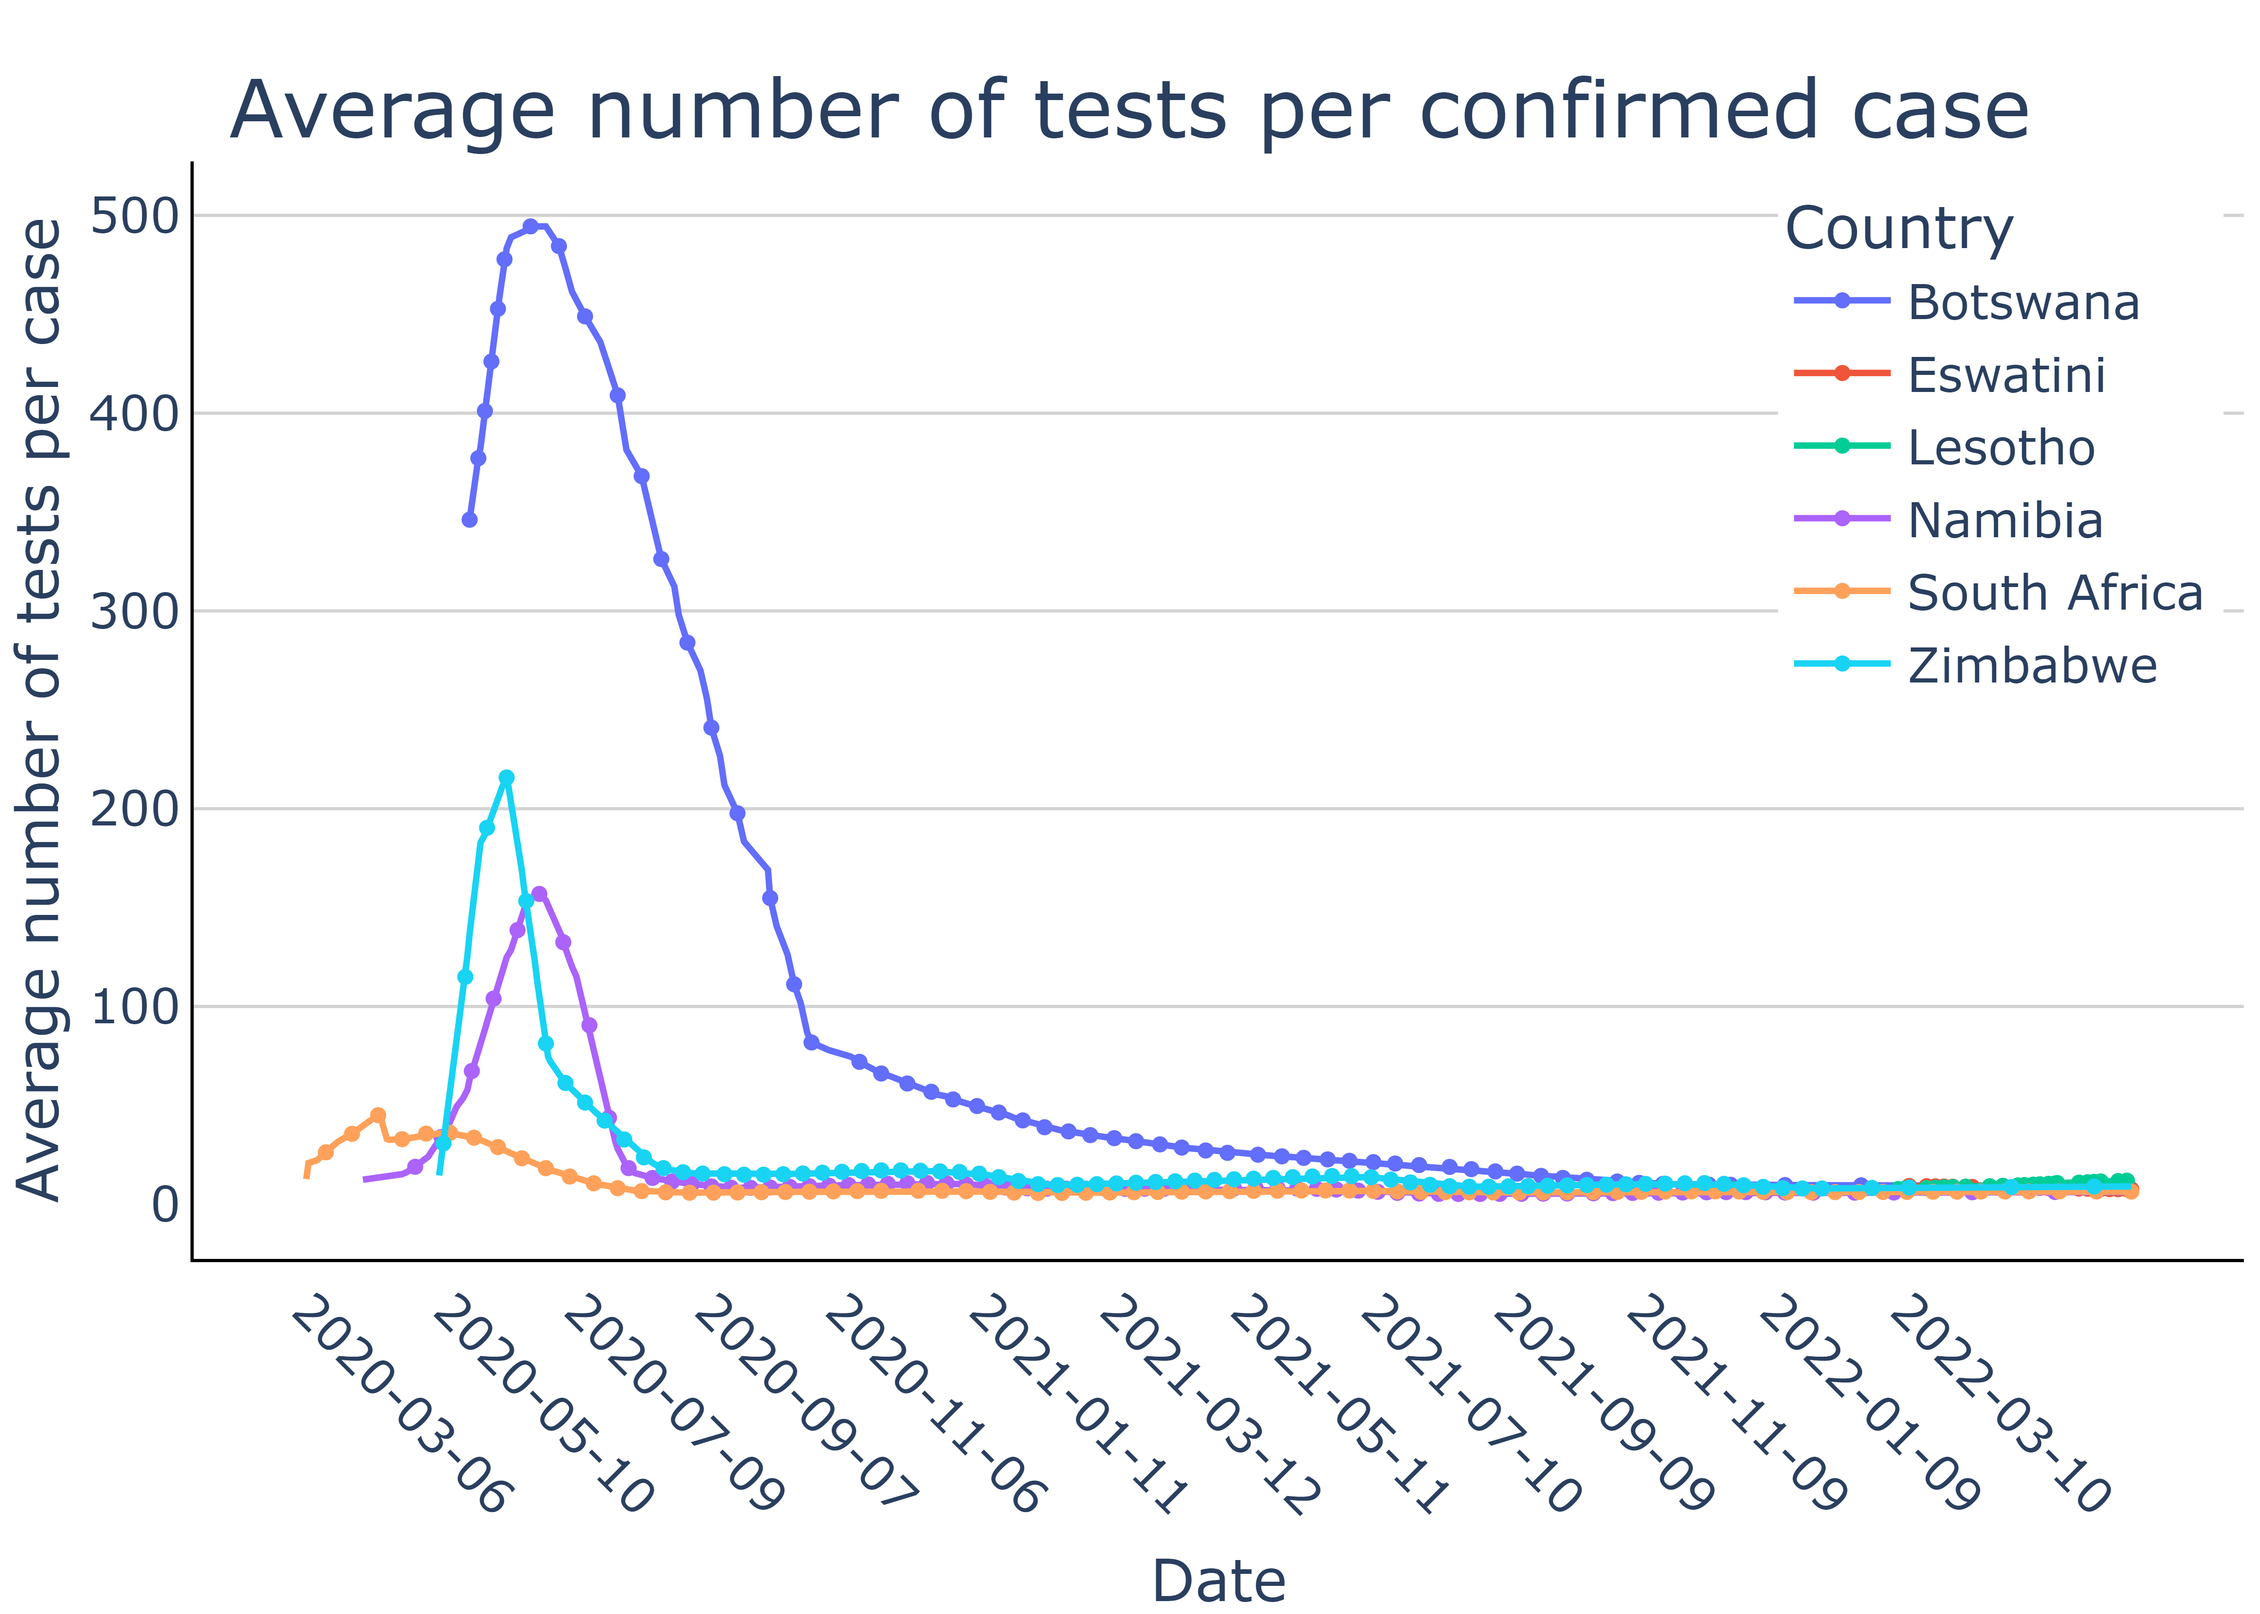
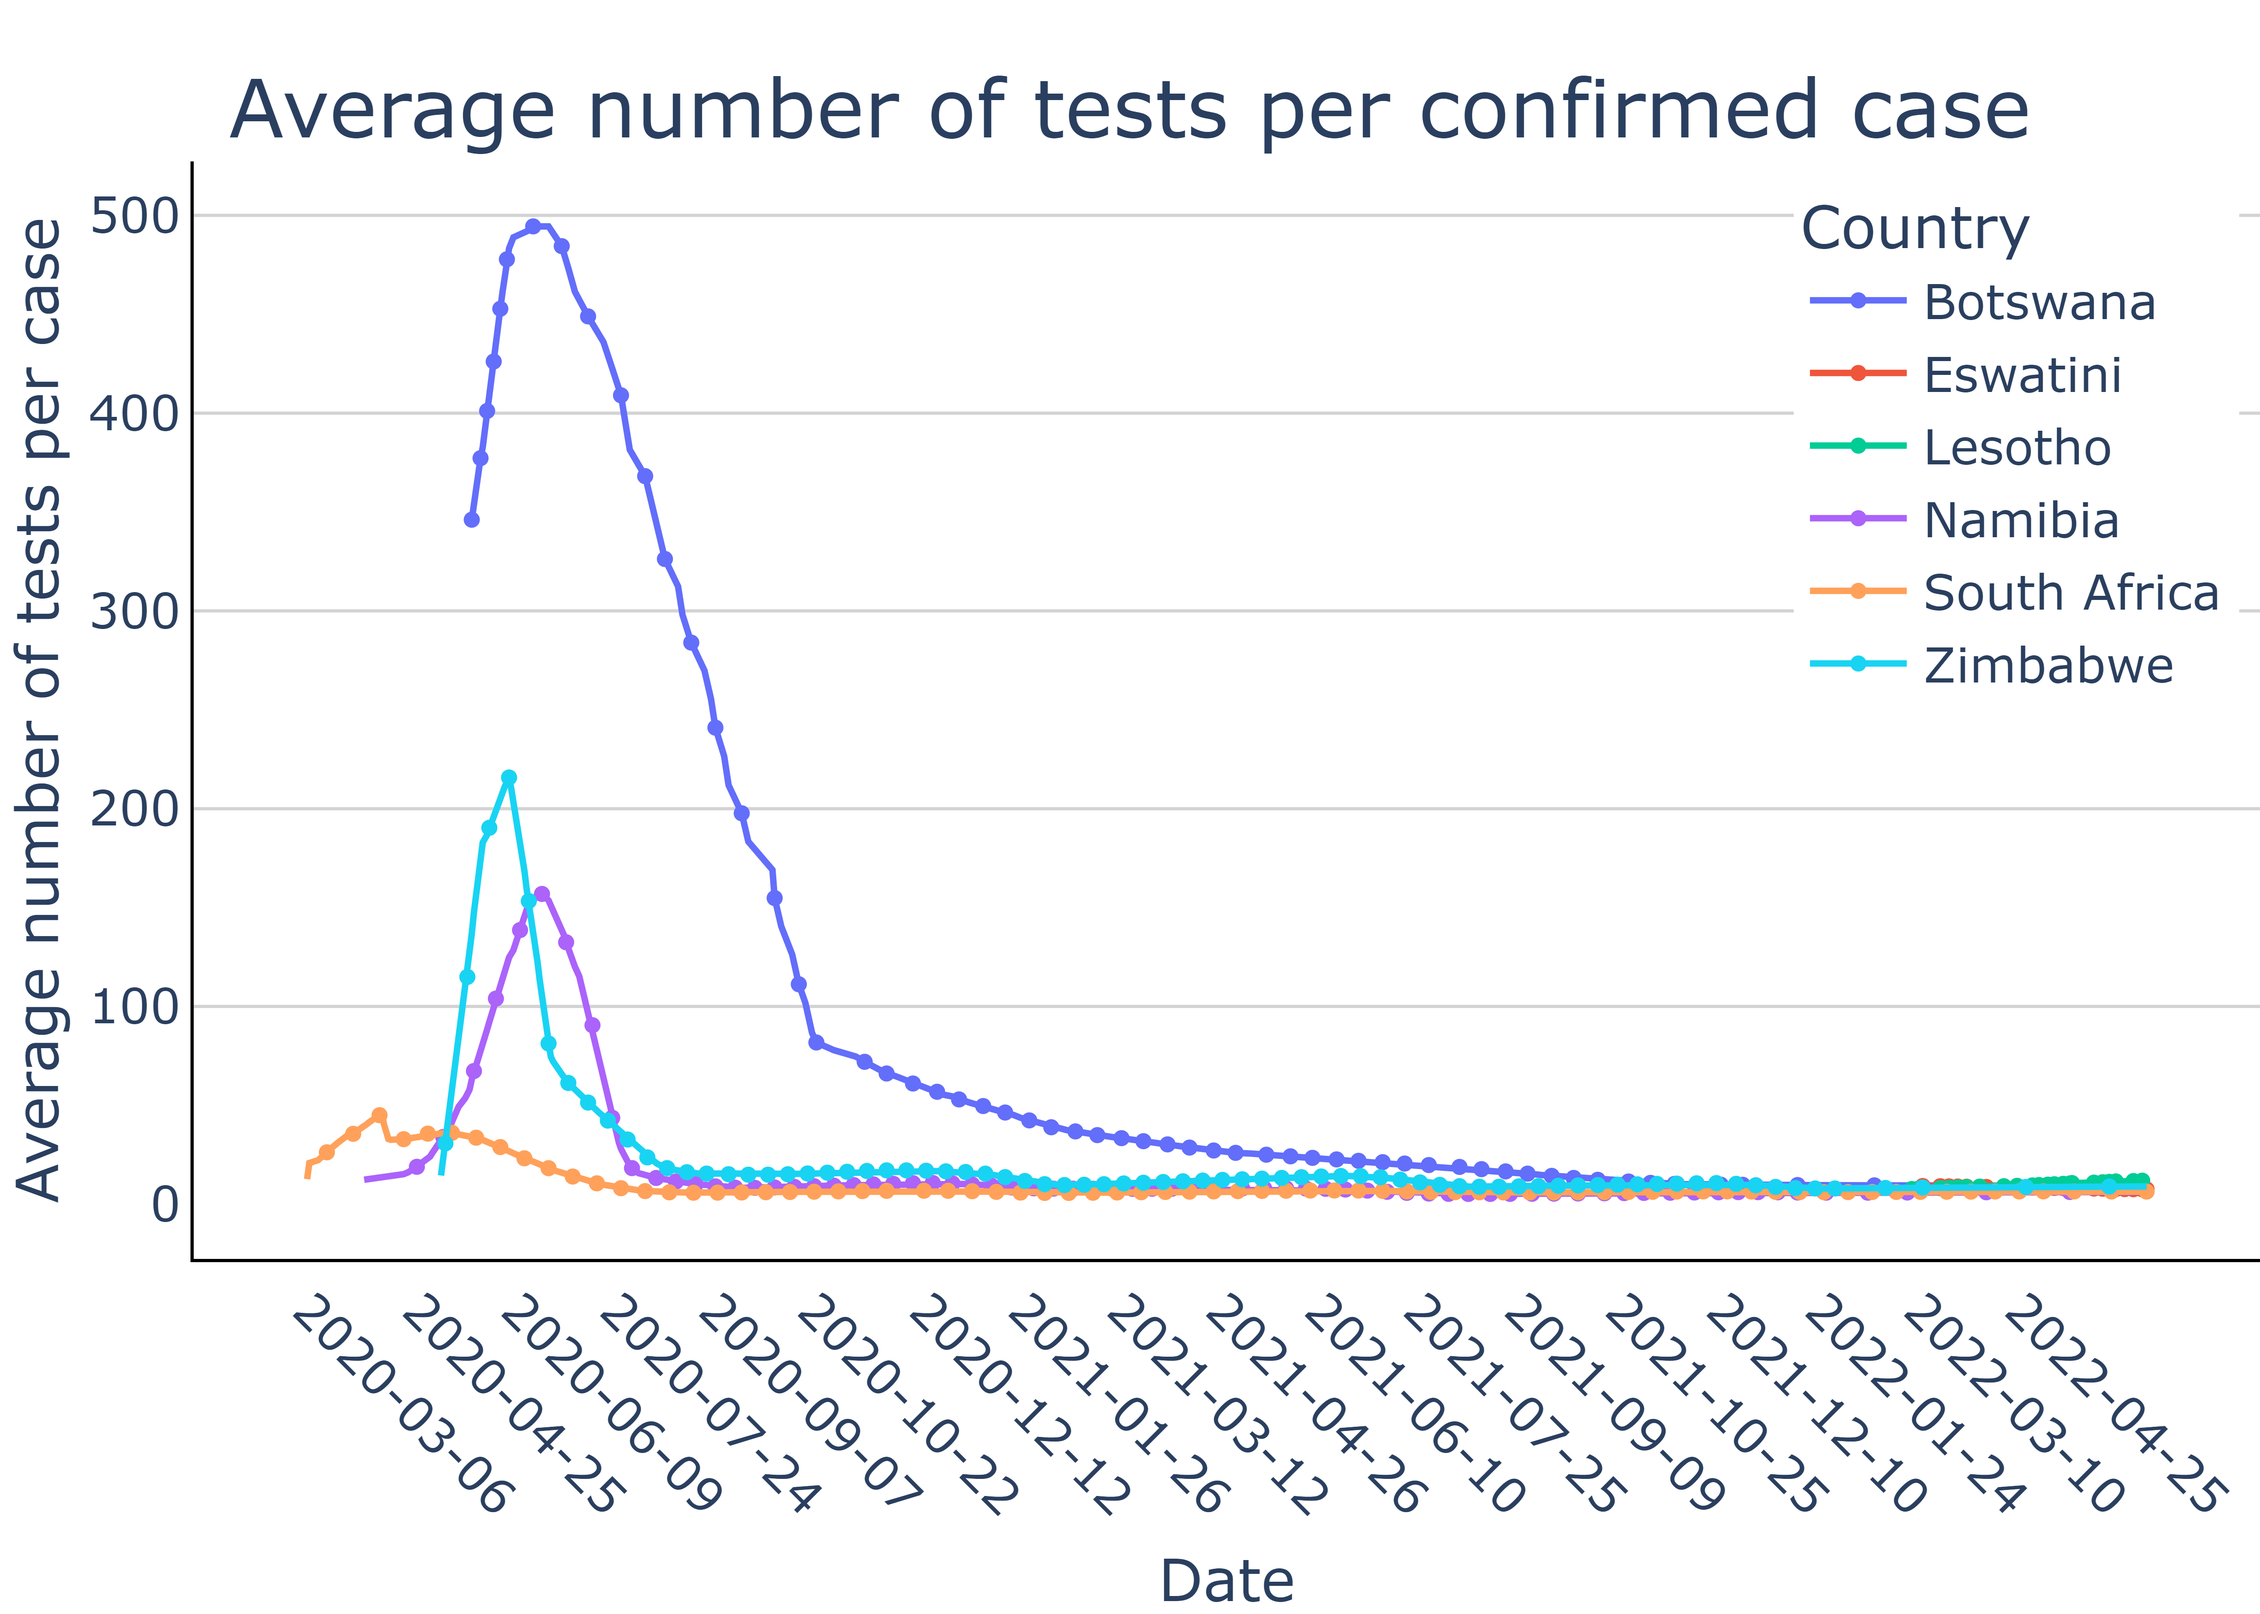
updates to stationary plot

diff --git a/scripts/stationary/tests_case.py b/scripts/stationary/tests_case.py
@@ -35,7 +35,7 @@ for country, data_for_country in data.groupby("Entity"):
 
 # Modify teh xaxis ticks
 dates = data[data["Entity"] == "South Africa"].Day.to_list()
-chosen = dates[0::60]
+chosen = dates[0::45]
 fig.update_layout(xaxis=dict(
     tickmode="array",
     tickvals=chosen,
